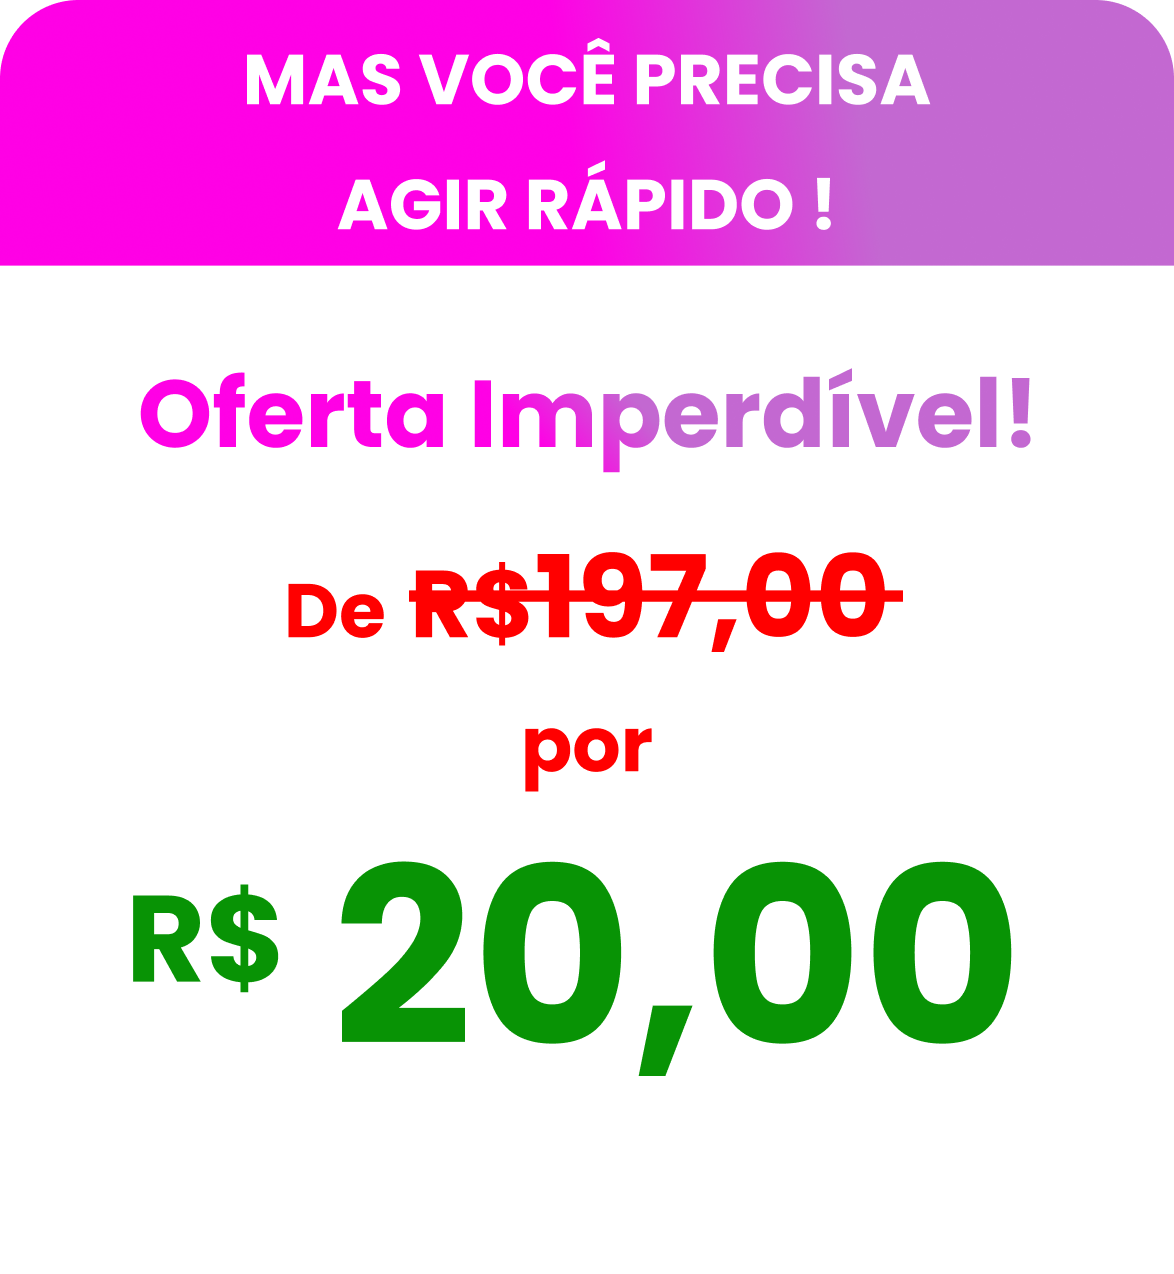
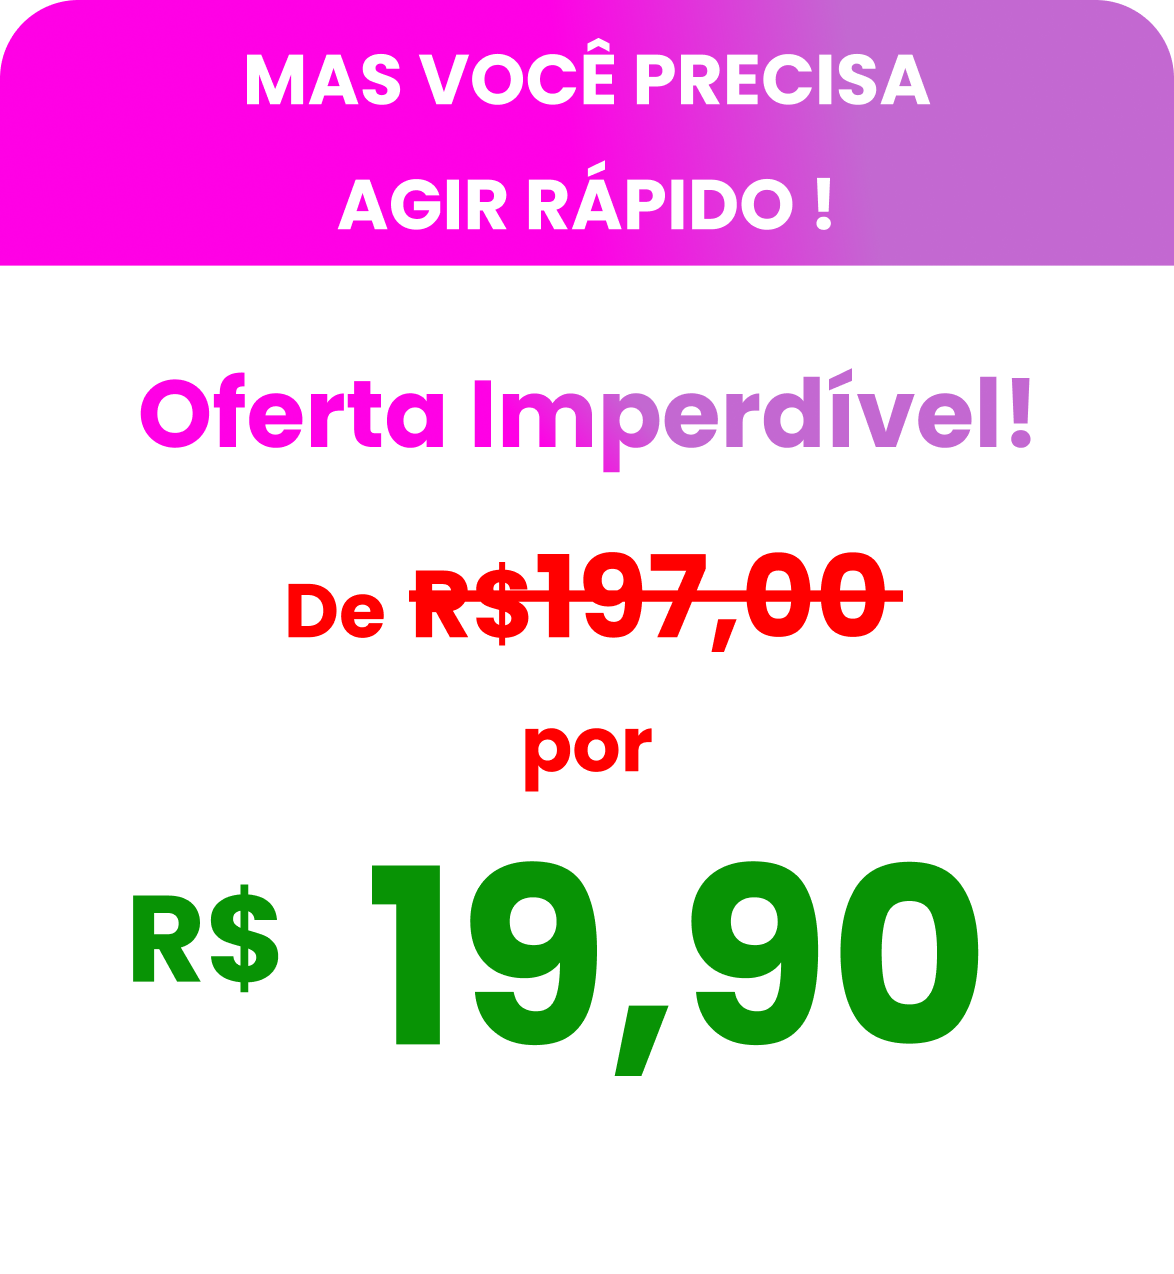
new price

Changed region(s): [[0.276, 0.6735, 0.8586, 0.8571]]

diff --git a/pages/components/Bonus.tsx b/pages/components/Bonus.tsx
@@ -73,7 +73,7 @@ const Bonus = (props: Props) => {
           TODO ESSE CONTEÚDO VAI SAIR SOMENTE POR
         </h1>
         <h1 id="kanit" className="text-6xl font-bold text-center mt-10">
-          <span className="text-[#13D460]">R$20,00</span>
+          <span className="text-[#13D460]">R$19,90</span>
         </h1>
       </div>
     </div>
